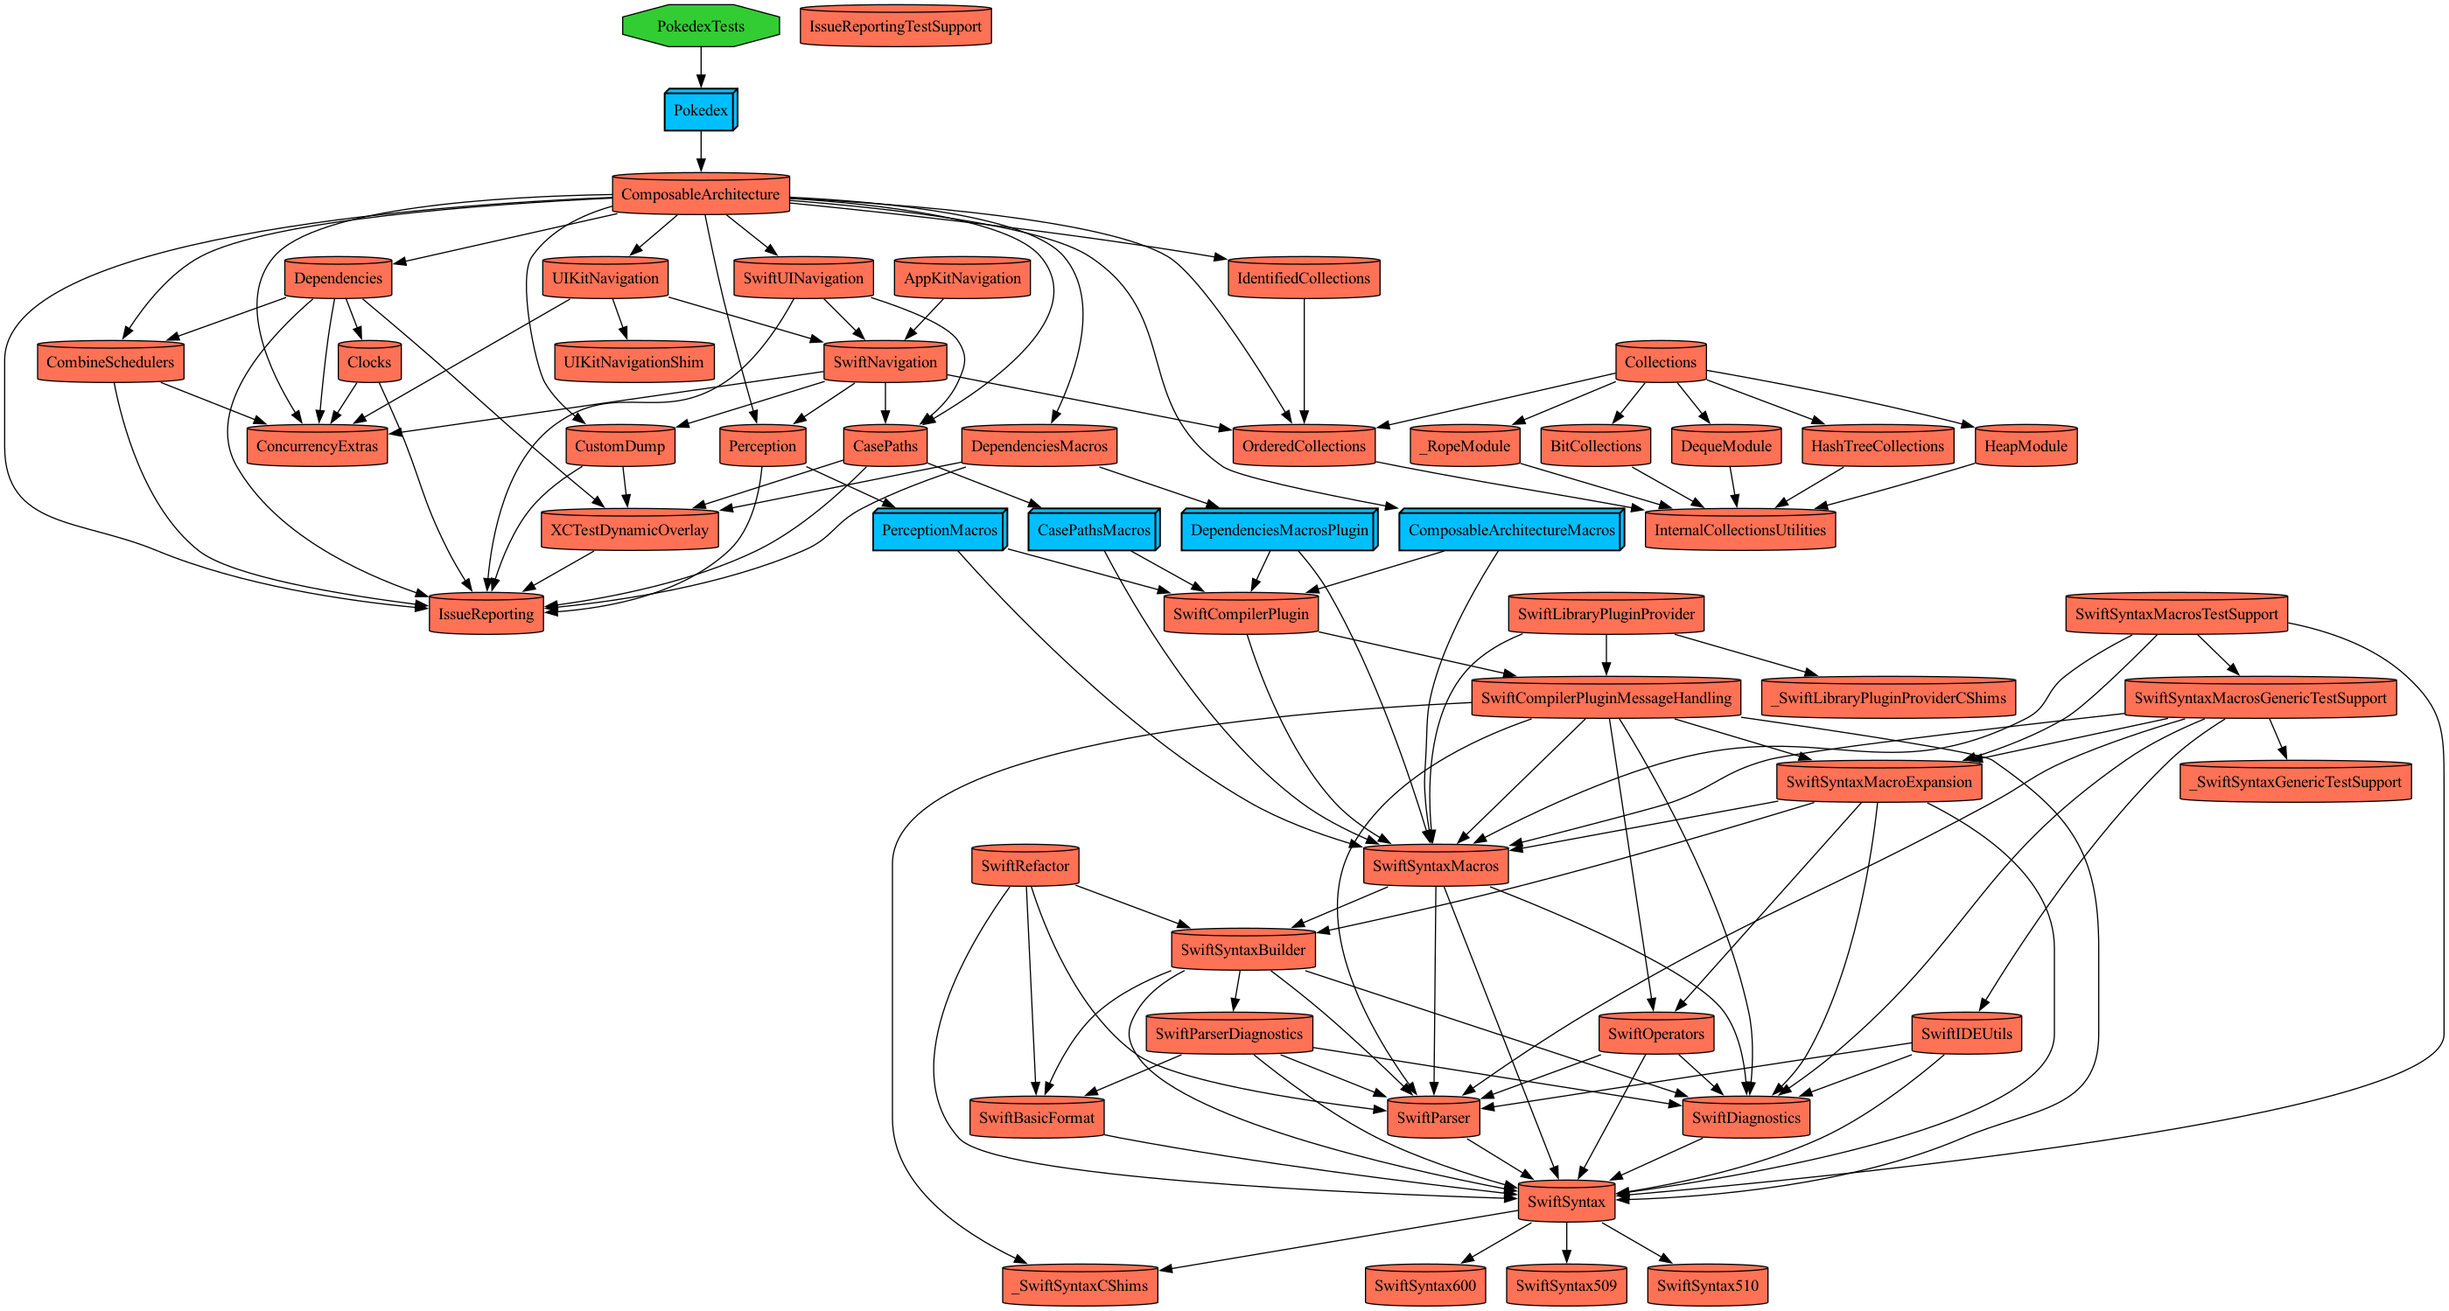
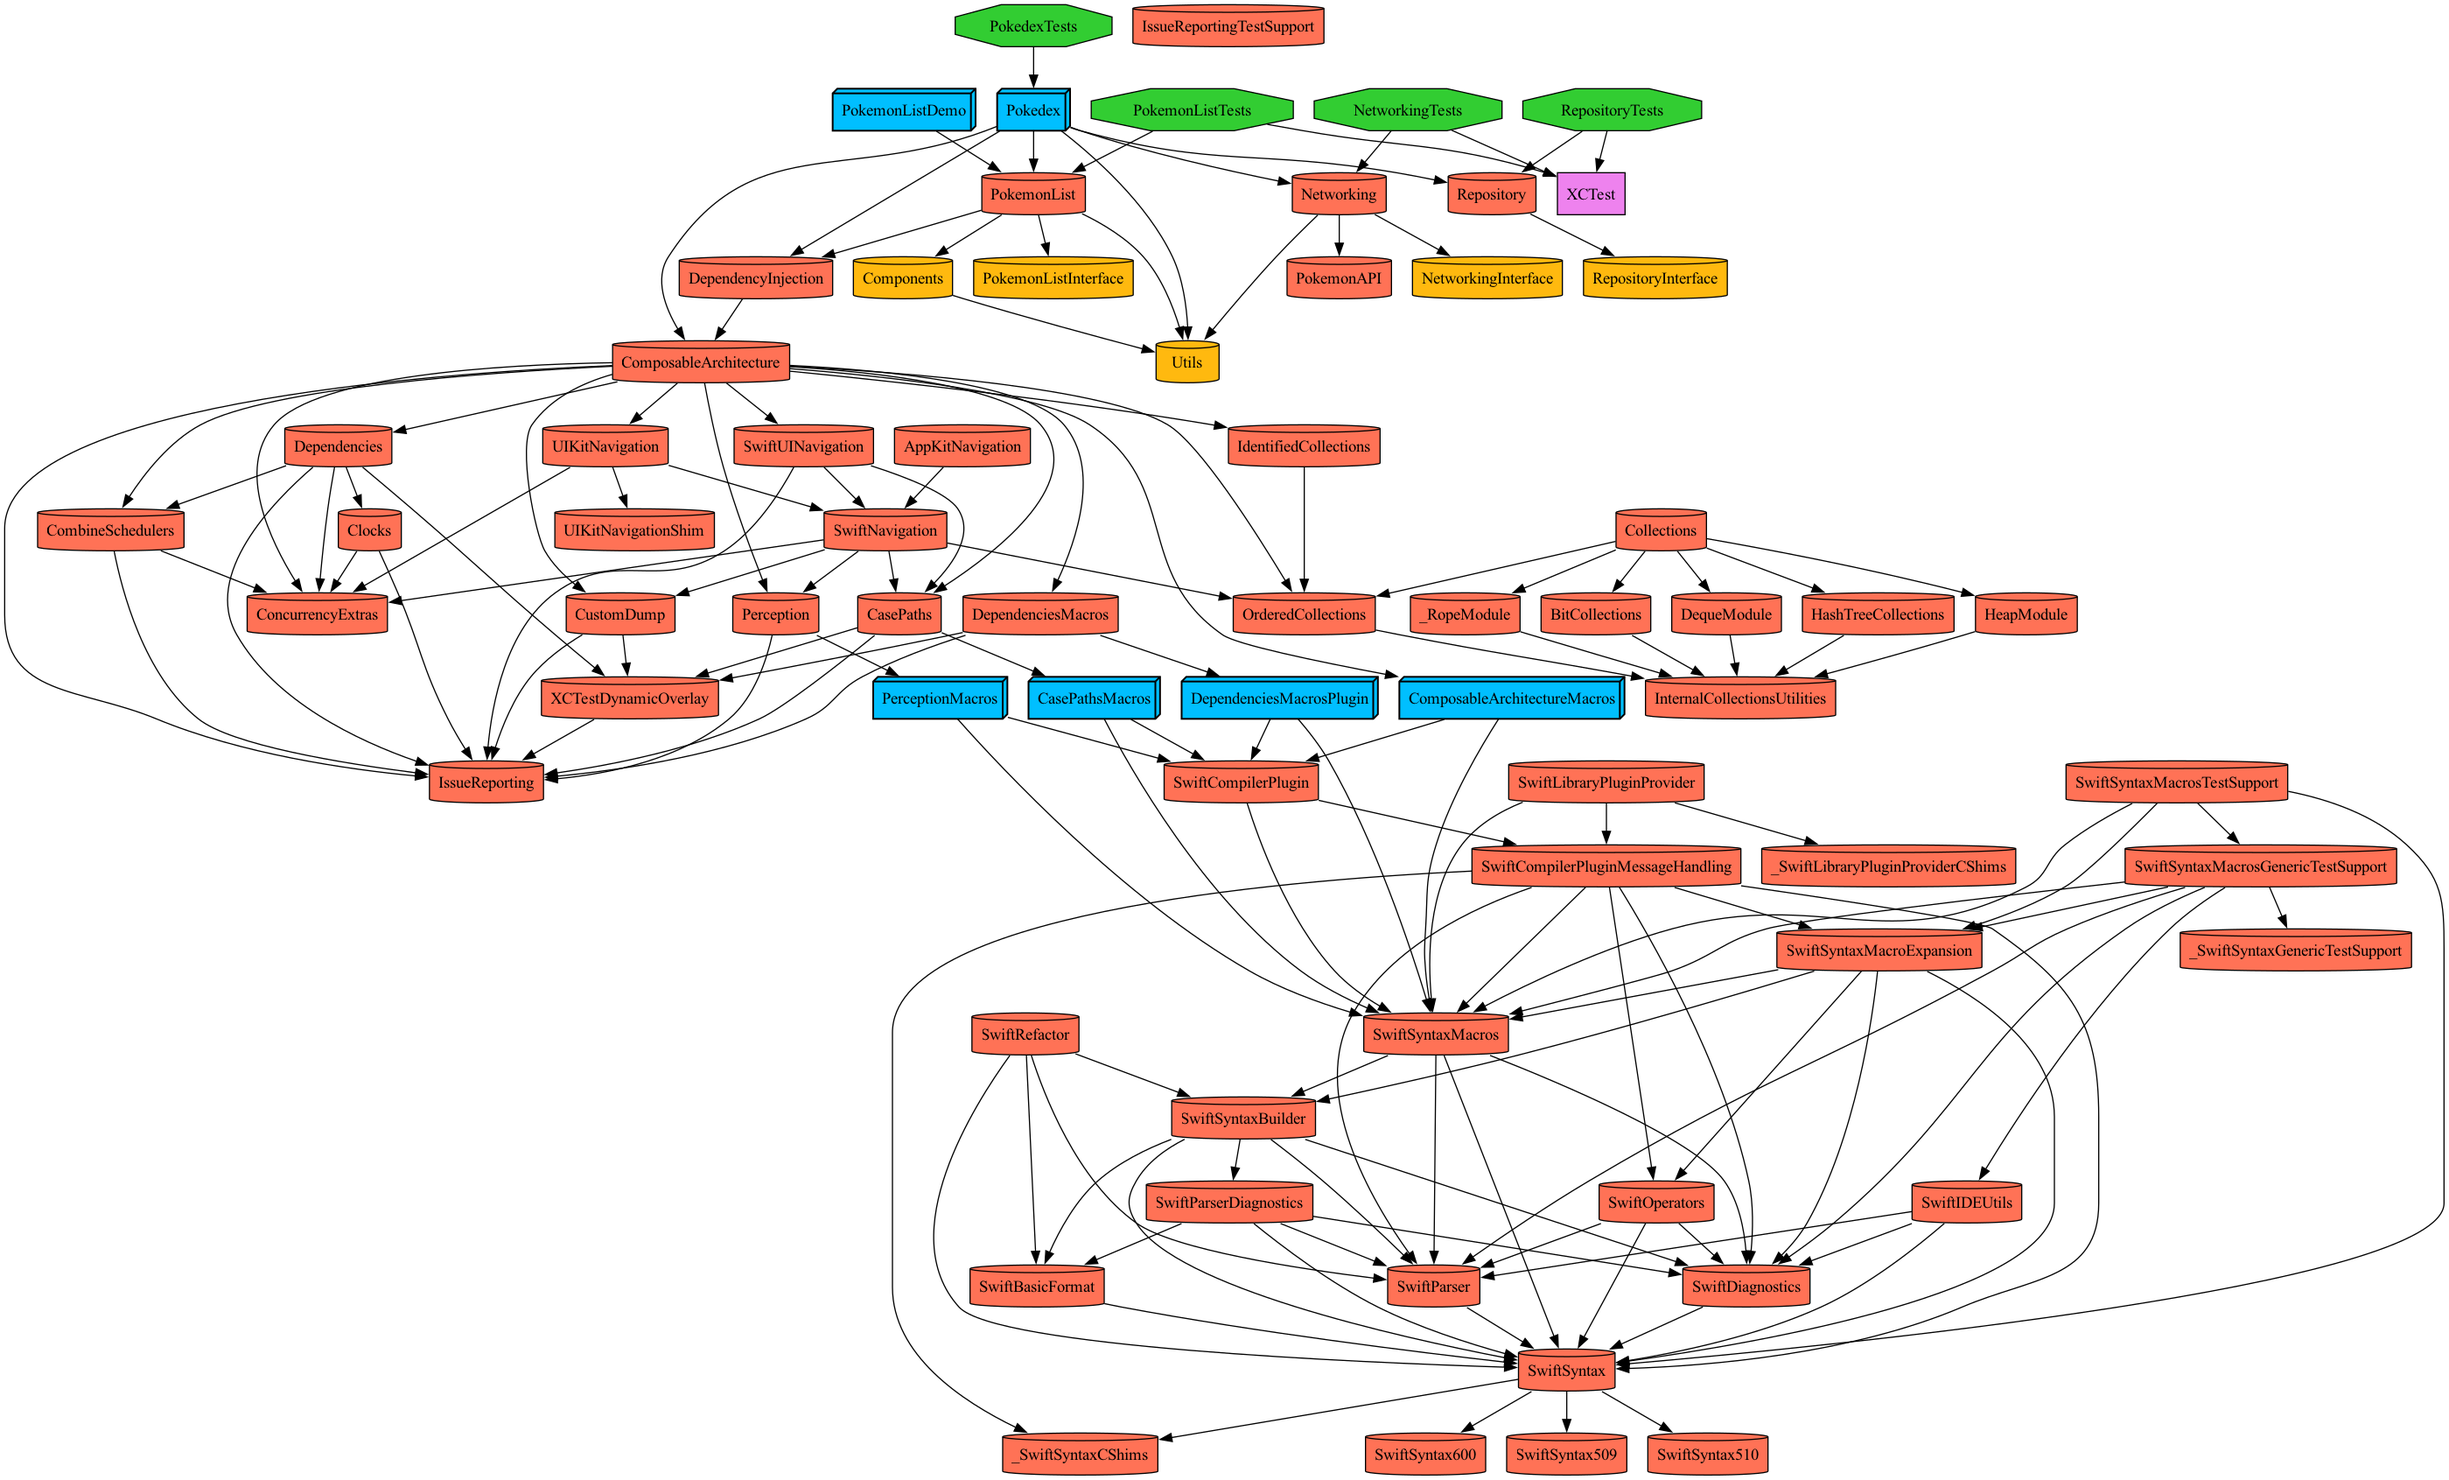
Networking 모듈 PokemonAPI 추가
- 그래프 이미지 수정

diff --git a/Core/Networking/Project.swift b/Core/Networking/Project.swift
@@ -50,7 +50,8 @@ let project = Project(
             sources: ["Sources/**"],
             dependencies: [
                 .target(name: "\(projectName)Interface"),
-                .project(target: "Utils",  path: .relativeToRoot("Share/Utils"))
+                .project(target: "Utils",  path: .relativeToRoot("Share/Utils")),
+                .external(name: "PokemonAPI")
             ]
         ),
         .target(
